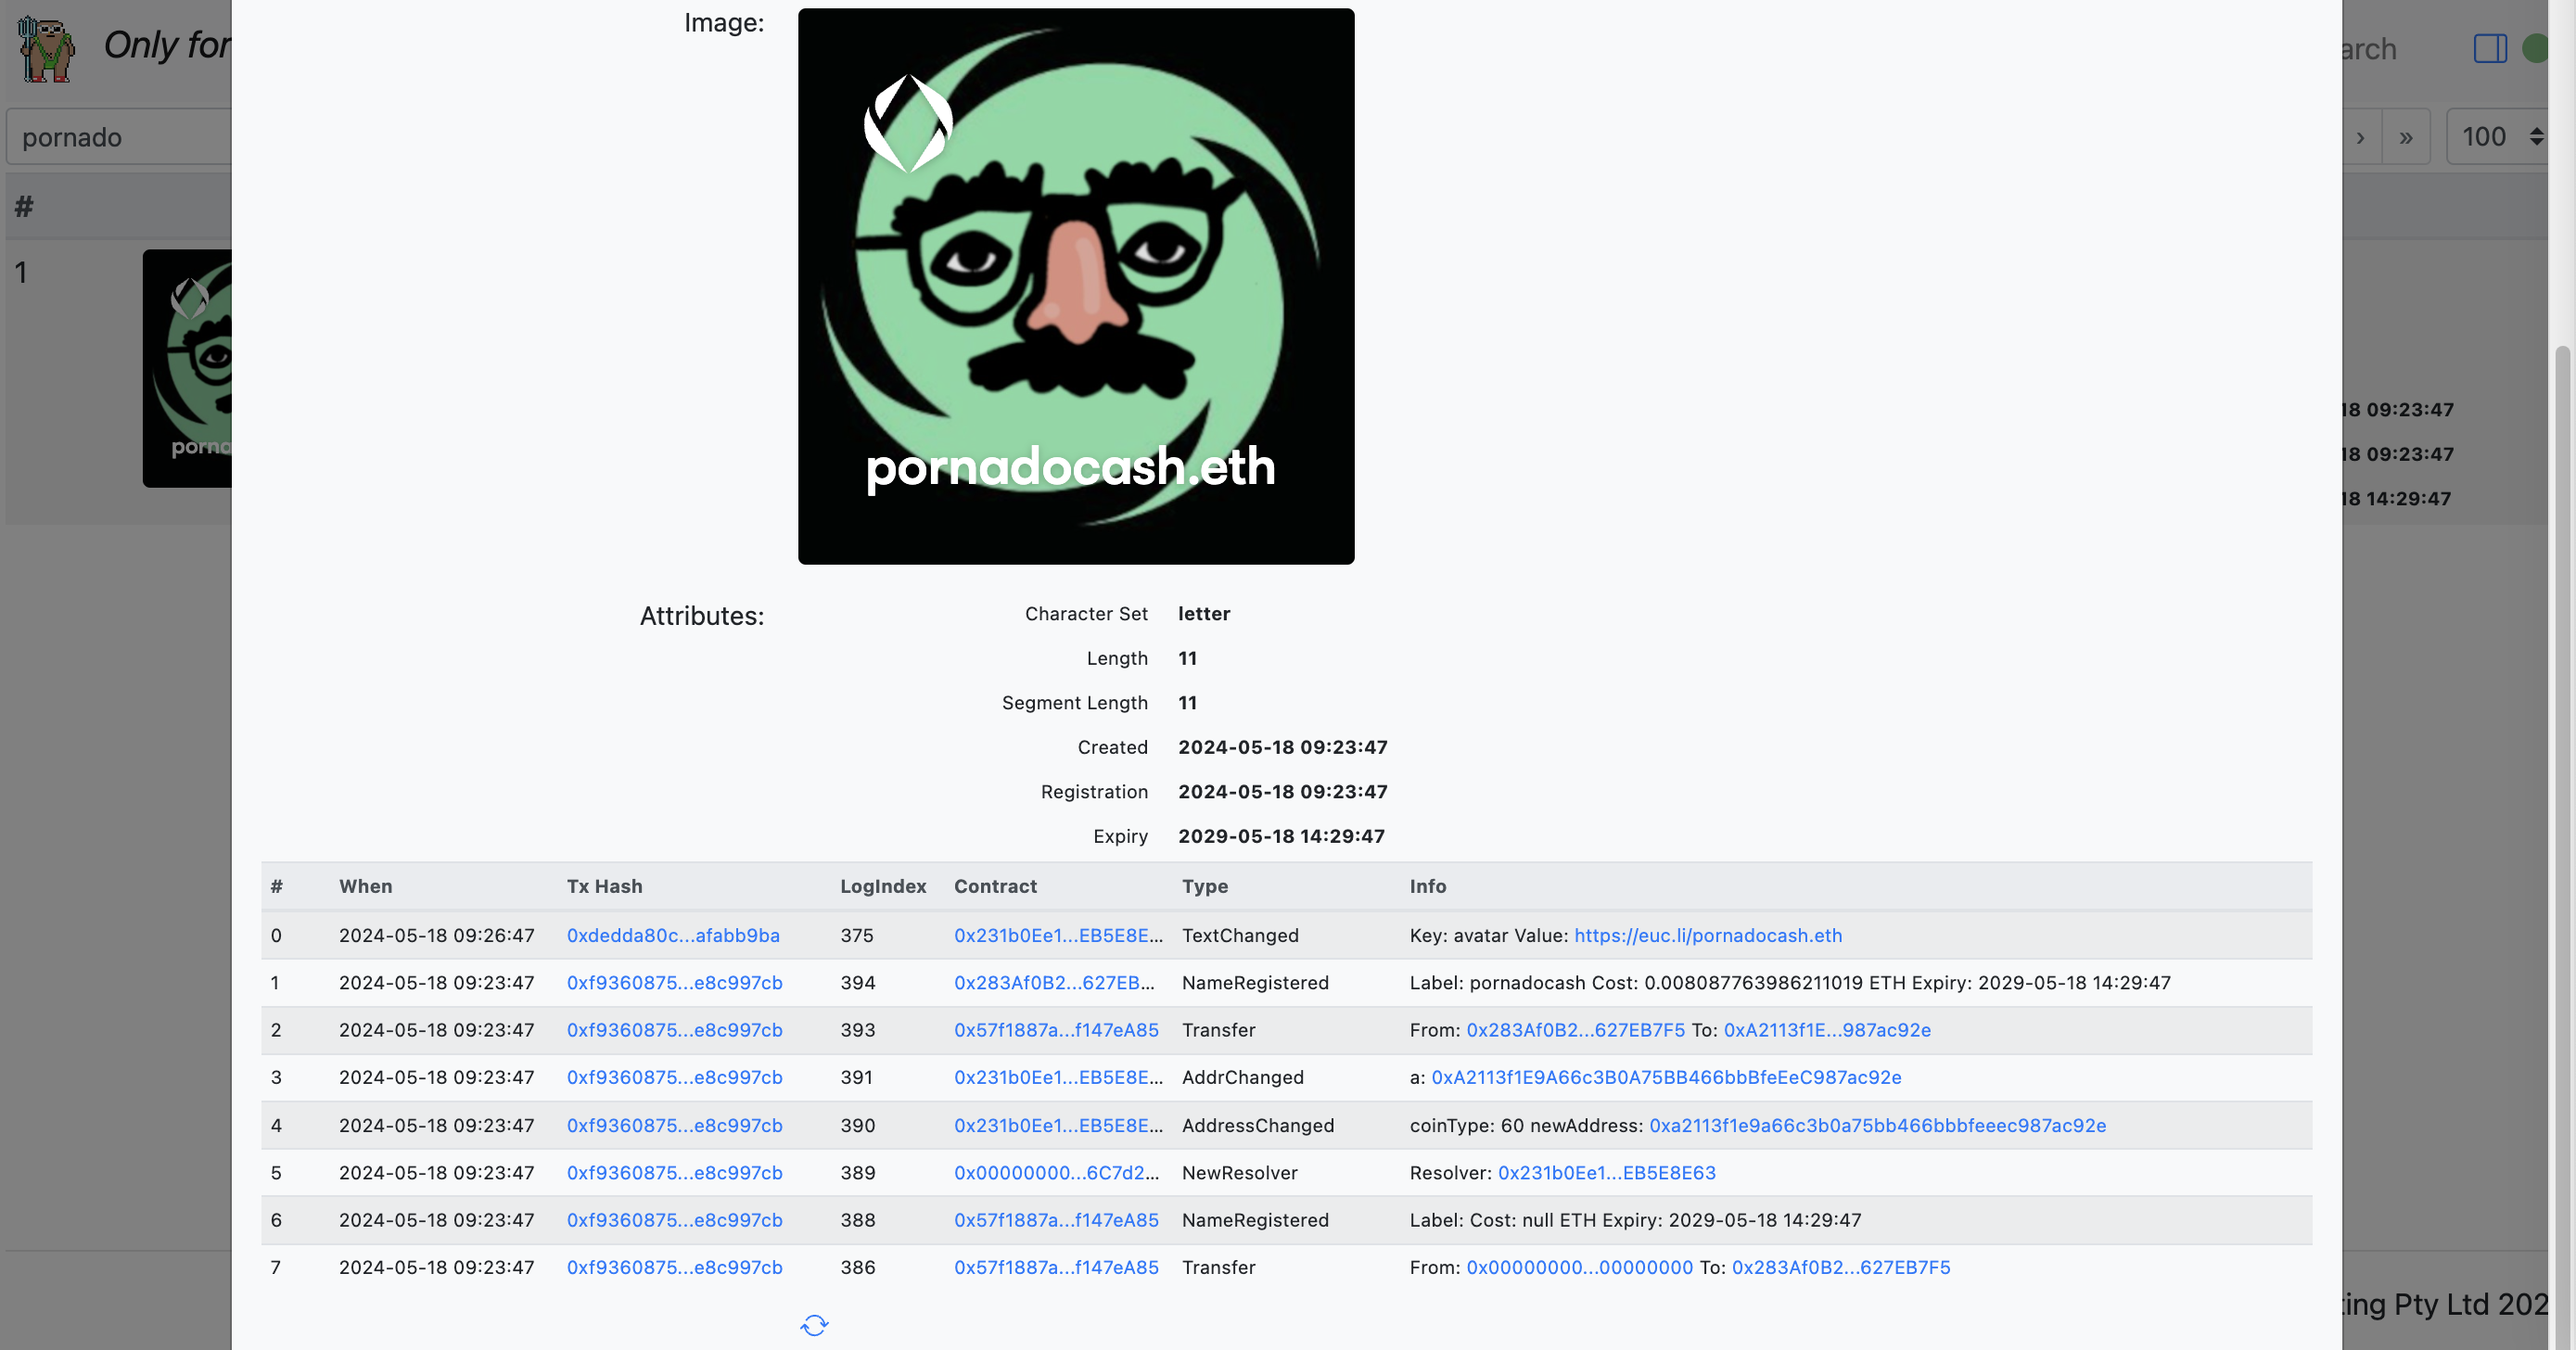
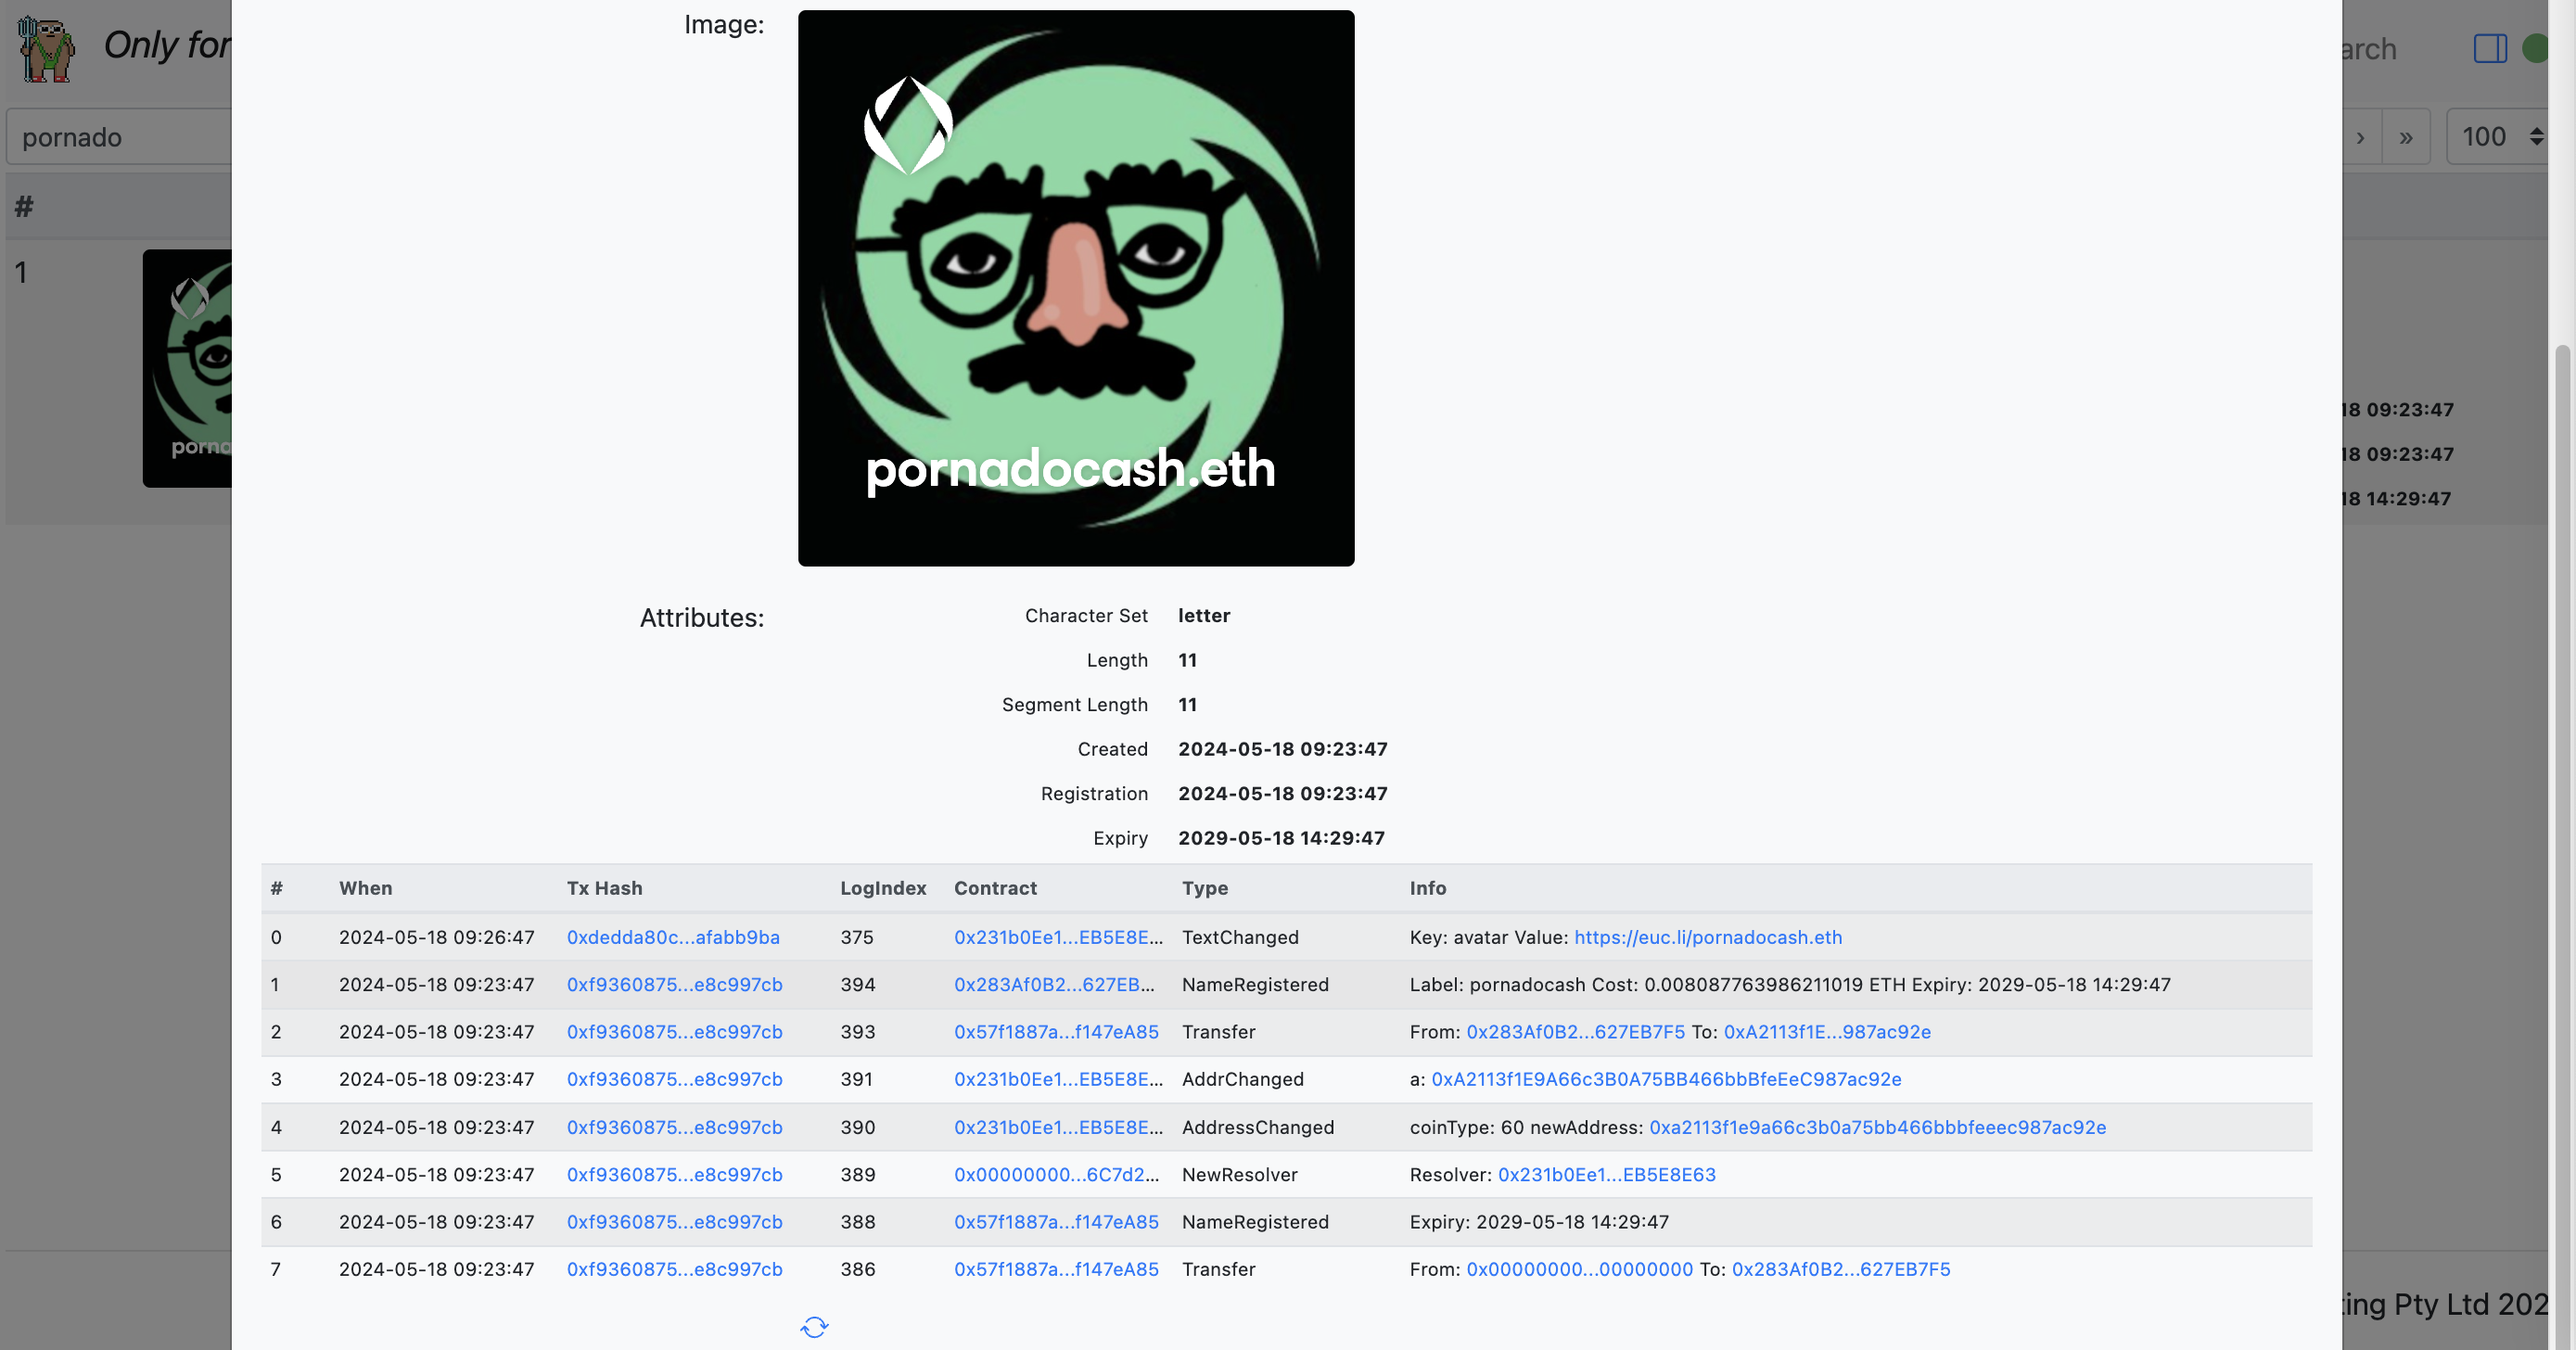
Free Pertsev!

diff --git a/docs/viewName.js b/docs/viewName.js
@@ -113,7 +113,13 @@ const ViewName = {
                   </b-link>
               </span>
               <span v-else-if="data.item.type == 'NameRegistered'">
-                Label: {{ data.item.label }} Cost: {{ formatETH(data.item.cost) + ' ETH' }} Expiry: {{ formatTimestamp(data.item.expires) }}
+                <span v-if="data.item.label">
+                  Label: {{ data.item.label }}
+                </span>
+                <span v-if="data.item.label">
+                  Cost: {{ formatETH(data.item.cost) + ' ETH' }}
+                </span>
+                Expiry: {{ formatTimestamp(data.item.expires) }}
               </span>
               <span v-else-if="data.item.type == 'NameRenewed'">
                 Label: {{ data.item.label }} Cost: {{ formatETH(data.item.cost) + ' ETH' }} Expiry: {{ formatTimestamp(data.item.expiry) }}
